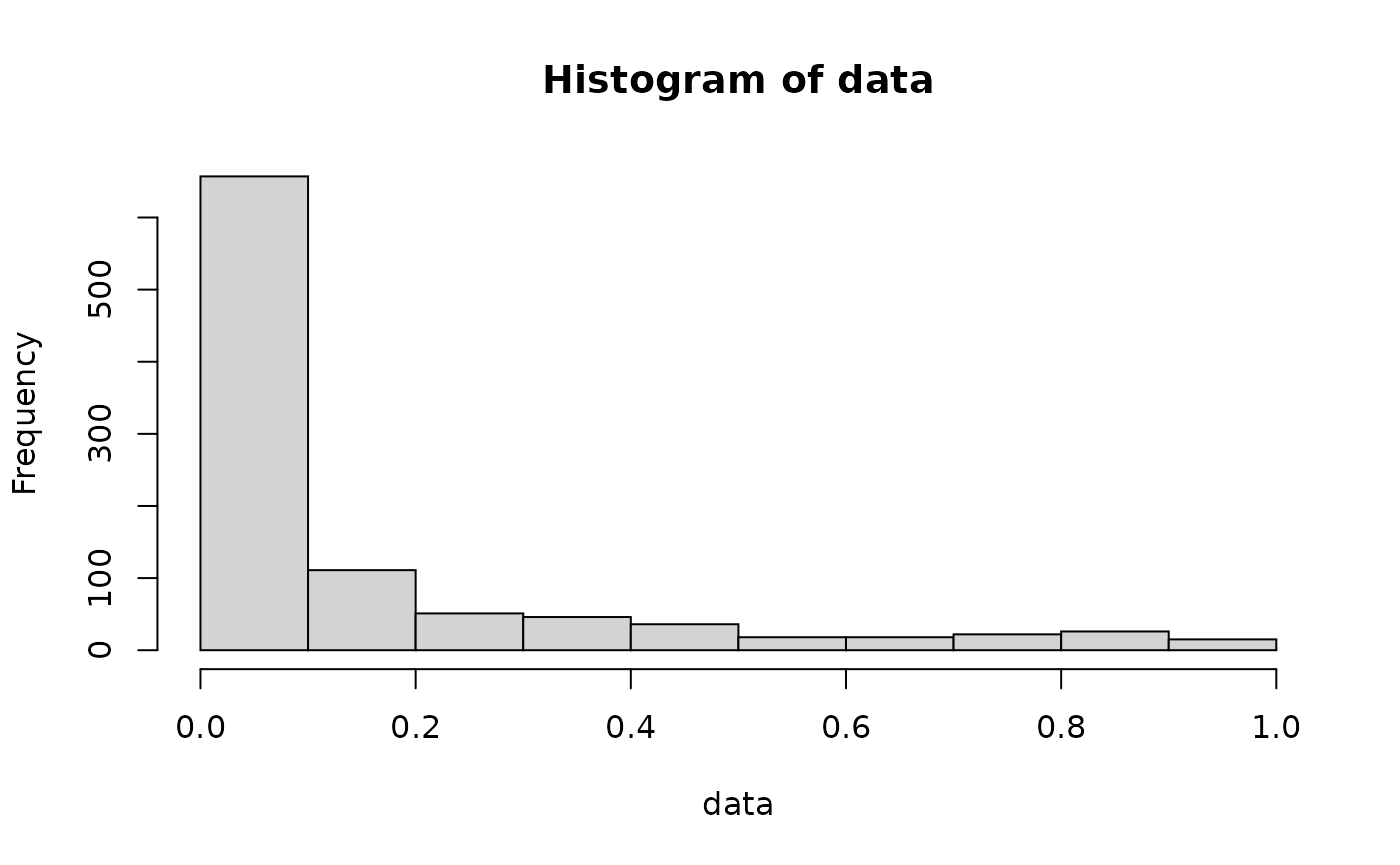
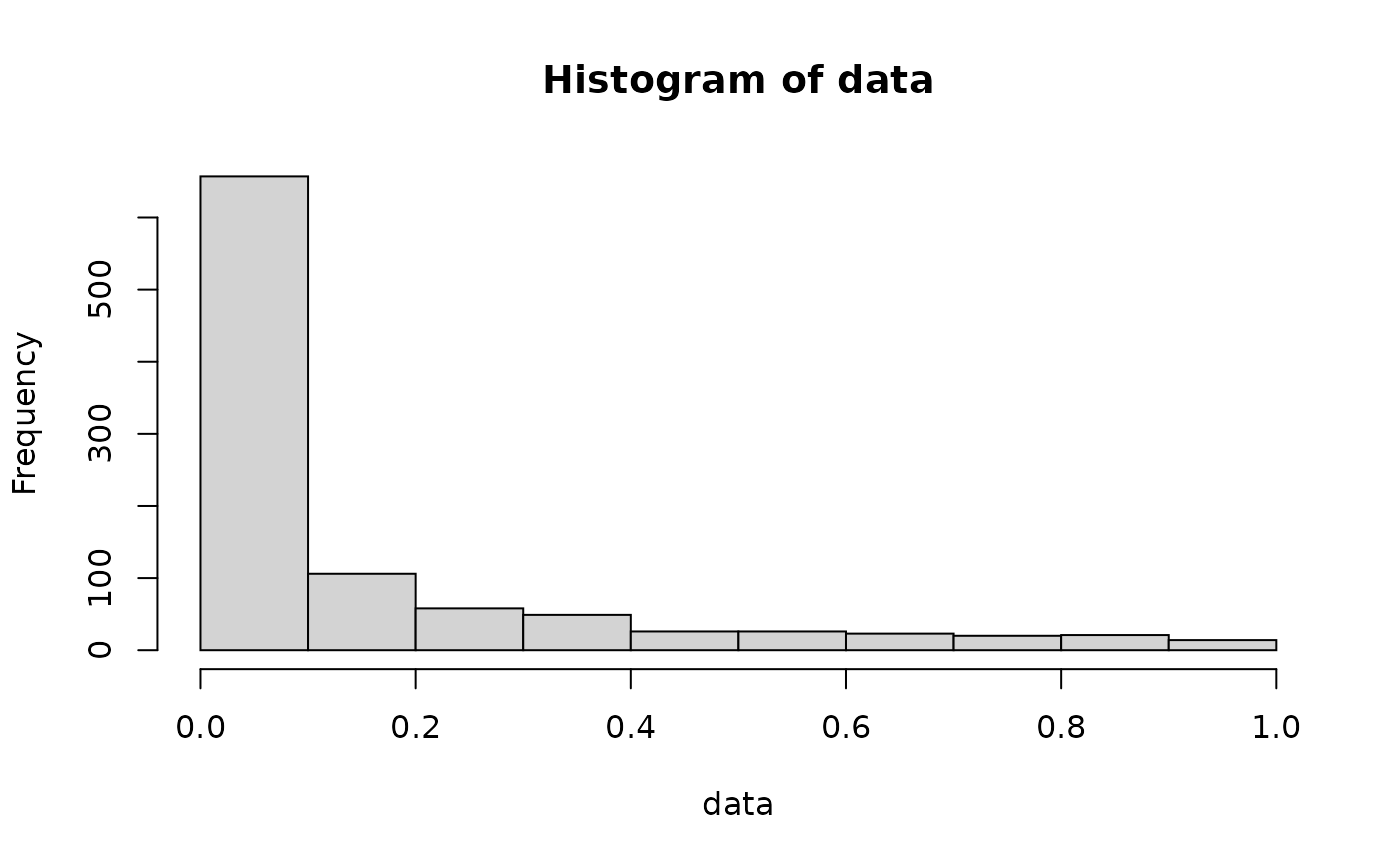
Built site for bradfordr: 0.0.0.9000@6a0a82a

Changed region(s): [[0.3071, 0.6867, 0.8907, 0.7491], [0.215, 0.6555, 0.3071, 0.6867]]

diff --git a/articles/rng-bradford-dist.html b/articles/rng-bradford-dist.html
@@ -90,7 +90,7 @@
 </h1>
                         <h4 class="author">Victor Dogo</h4>
             
-            <h4 class="date">Last updated in 2021-09-19</h4>
+            <h4 class="date">Last updated in 2021-10-02</h4>
       
       <small class="dont-index">Source: <a href="https://github.com/victordogo/bradfordr/blob/master/vignettes/rng-bradford-dist.Rmd"><code>vignettes/rng-bradford-dist.Rmd</code></a></small>
       <div class="hidden name"><code>rng-bradford-dist.Rmd</code></div>
@@ -130,17 +130,20 @@ x = F^{-1}(u;c) = \frac{(1+c)^u - 1}{c}
 <a href="#generating-numbers" class="anchor"></a>Generating Numbers</h2>
 <p>It’s as easy as 1-2-3: just call the <code>rbradford</code> function with sample size <code>n</code> and parameter <code>c</code> (defaults to <code>c=5</code>):</p>
 <div class="sourceCode" id="cb2"><pre class="downlit sourceCode r">
-<code class="sourceCode R"><span class="va">data</span> <span class="op">&lt;-</span> <span class="fu"><a href="../reference/rbradford.html">rbradford</a></span><span class="op">(</span><span class="fl">1000</span>, c<span class="op">=</span><span class="fl">10</span><span class="op">)</span>
+<code class="sourceCode R">
+<span class="va">data</span> <span class="op">&lt;-</span> <span class="fu"><a href="../reference/rbradford.html">rbradford</a></span><span class="op">(</span><span class="fl">1000</span>, c<span class="op">=</span><span class="fl">10</span><span class="op">)</span>
 
 <span class="fu"><a href="https://rdrr.io/r/utils/head.html">head</a></span><span class="op">(</span><span class="va">data</span><span class="op">)</span>
-<span class="co">#&gt; [1] 0.45387202 0.51819626 0.06921732 0.44055909 0.03777027 0.13190694</span></code></pre></div>
+<span class="co">#&gt; [1] 0.36547672 0.13138593 0.07531710 0.61163447 0.29745728 0.06903949</span></code></pre></div>
 <p>We can easily plot this data to understand how it behaves:</p>
 <div class="sourceCode" id="cb3"><pre class="downlit sourceCode r">
-<code class="sourceCode R"><span class="fu"><a href="https://rdrr.io/r/graphics/hist.html">hist</a></span><span class="op">(</span><span class="va">data</span><span class="op">)</span></code></pre></div>
+<code class="sourceCode R">
+<span class="fu"><a href="https://rdrr.io/r/graphics/hist.html">hist</a></span><span class="op">(</span><span class="va">data</span><span class="op">)</span></code></pre></div>
 <p><img src="rng-bradford-dist_files/figure-html/unnamed-chunk-3-1.png" width="700"></p>
 <p>With greater <code>c</code> values, comes a longer tail:</p>
 <div class="sourceCode" id="cb4"><pre class="downlit sourceCode r">
-<code class="sourceCode R"><span class="va">data</span> <span class="op">&lt;-</span> <span class="fu"><a href="../reference/rbradford.html">rbradford</a></span><span class="op">(</span><span class="fl">1000</span>, c<span class="op">=</span><span class="fl">1000</span><span class="op">)</span>
+<code class="sourceCode R">
+<span class="va">data</span> <span class="op">&lt;-</span> <span class="fu"><a href="../reference/rbradford.html">rbradford</a></span><span class="op">(</span><span class="fl">1000</span>, c<span class="op">=</span><span class="fl">1000</span><span class="op">)</span>
 
 <span class="fu"><a href="https://rdrr.io/r/graphics/hist.html">hist</a></span><span class="op">(</span><span class="va">data</span><span class="op">)</span></code></pre></div>
 <p><img src="rng-bradford-dist_files/figure-html/unnamed-chunk-4-1.png" width="700"></p>

diff --git a/index.html b/index.html
@@ -120,8 +120,8 @@
 <code class="sourceCode R"><span class="kw"><a href="https://rdrr.io/r/base/library.html">library</a></span><span class="op">(</span><span class="va"><a href="https://github.com/victordogo/bradfordr">bradfordr</a></span><span class="op">)</span>
 
 <span class="fu"><a href="reference/rbradford.html">rbradford</a></span><span class="op">(</span>n<span class="op">=</span><span class="fl">10</span><span class="op">)</span>
-<span class="co">#&gt;  [1] 0.60849746 0.89654655 0.96713865 0.03526403 0.03552219 0.22031577</span>
-<span class="co">#&gt;  [7] 0.44082245 0.22945828 0.08024803 0.81124538</span></code></pre></div>
+<span class="co">#&gt;  [1] 0.580131349 0.813027845 0.348226427 0.045228836 0.001209981 0.485849162</span>
+<span class="co">#&gt;  [7] 0.131886464 0.006243504 0.317923780 0.042822533</span></code></pre></div>
 <p>If the value of c is less or equal than 0, the function returns an error (this is true to all functions in this package).</p>
 </div>
 <div id="pbradford" class="section level3">
@@ -162,7 +162,7 @@
 <a href="#acknowledgments" class="anchor"></a>Acknowledgments</h2>
 <ul>
 <li>Many thanks to <a href="http://lattes.cnpq.br/8061034473607951">Prof. Dr. Danilo Lourenço Lopes</a>, who gave me the assignment to create functions for the Standardized Bradford Distribution and inadvertently inspired me to create this package;</li>
-<li>A huge shoutout to all instructors at <a href="curso-r.com">curso-r.com</a>, specially <a href="https://github.com/beatrizmilz">Beatriz Milz</a> and <a href="https://github.com/beatrizmilz">Caio C. Lente</a> who taught the R Packages Course. It was great!;</li>
+<li>A huge shoutout to all instructors at <a href="curso-r.com">curso-r.com</a>, specially <a href="https://github.com/beatrizmilz">Beatriz Milz</a> and <a href="https://github.com/clente">Caio Lente</a> who taught the R Packages Course. It was great!;</li>
 <li>Also, many thanks to <a href="https://github.com/athospd">Athos Damiani</a> and <a href="https://github.com/jtrecenti">Julio Trecenti</a> who, in 2019, taught a one-time mini course in R in which I’ve helped as event committee member (to the best of my abilities at that time, I was very shy). They encouraged me a lot! You can see that in <a href="https://www.youtube.com/watch?v=Bv_6YeVihZc&amp;t=8068s">this video</a> (in portuguese).</li>
 </ul>
 </div>
@@ -206,7 +206,7 @@
 <h2>Dev status</h2>
 <ul class="list-unstyled">
 <li><a href="https://github.com/victordogo/bradfordr/actions"><img src="https://github.com/victordogo/bradfordr/workflows/pkgdown/badge.svg" alt="pkgdown"></a></li>
-<li><a href="https://github.com/victordogo/bradfordr/actions"><img src="https://github.com/victordogo/bradfordr/workflows/check-release/badge.svg" alt="check-release"></a></li>
+<li><a href="https://github.com/victordogo/bradfordr/actions"><img src="https://github.com/victordogo/bradfordr/workflows/R-CMD-check/badge.svg" alt="R-CMD-check"></a></li>
 </ul>
 </div>
 </div>
